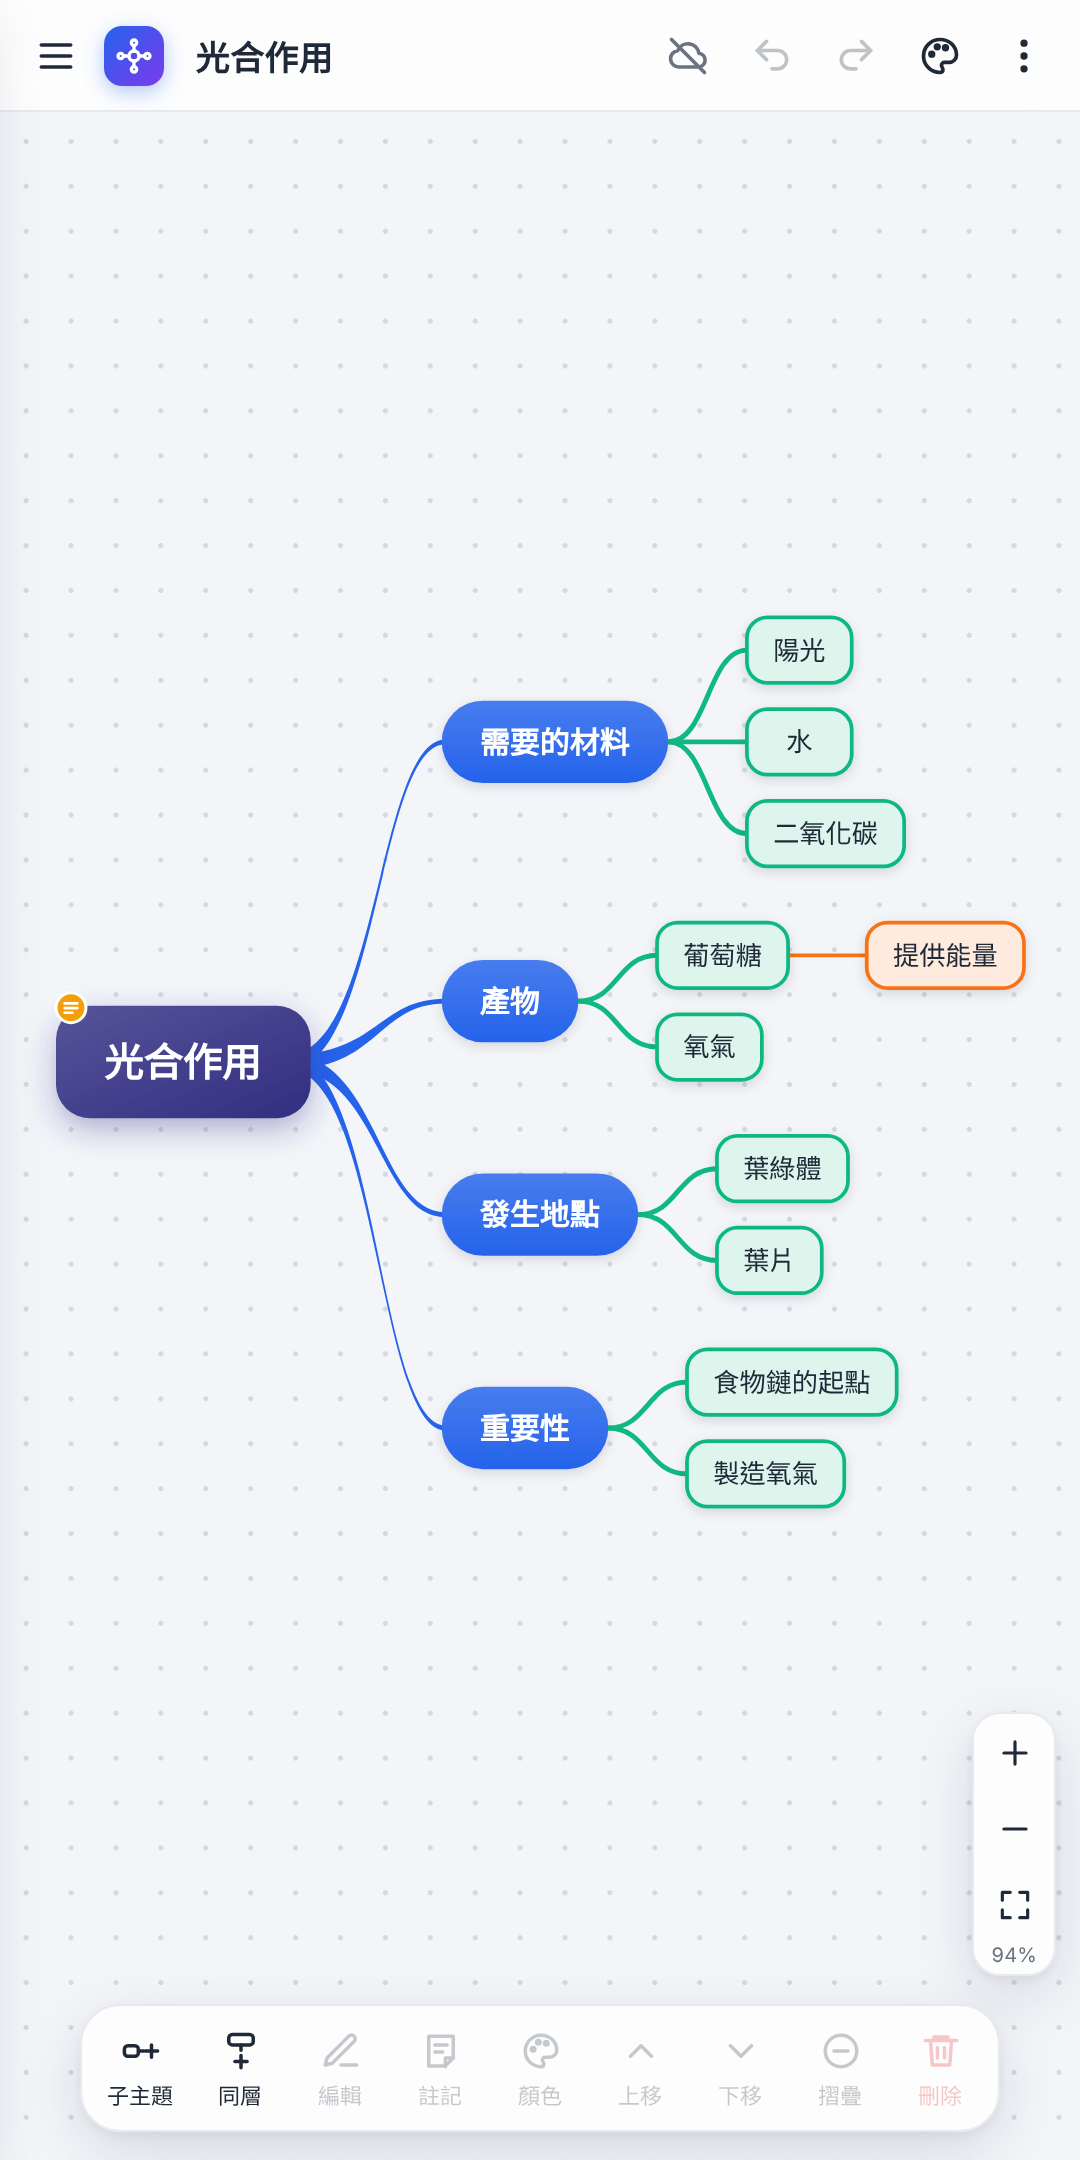
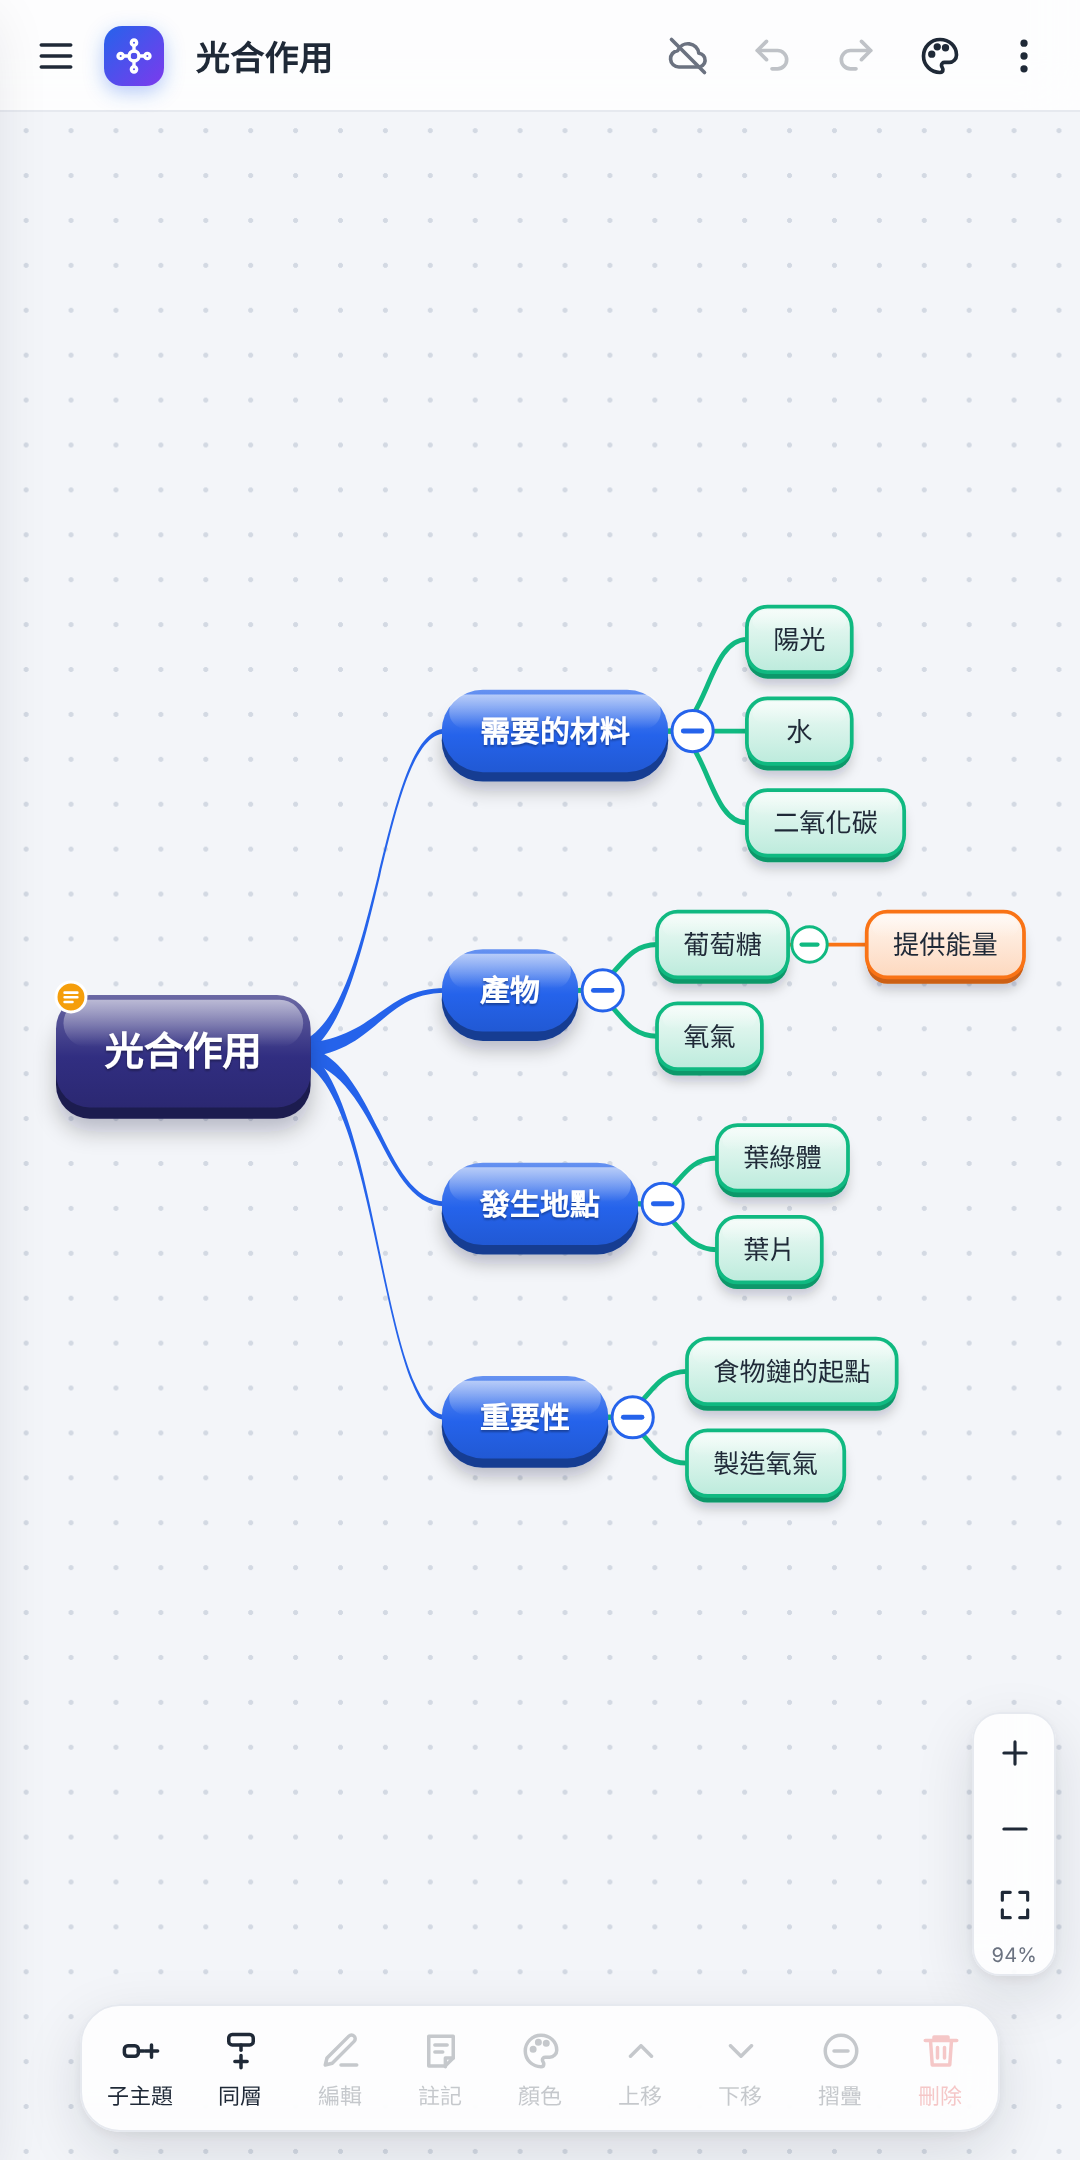
Add files via upload

Changed region(s): [[0.0306, 0.2792, 0.9472, 0.7134], [0.3361, 0.3722, 0.3667, 0.4343]]

diff --git a/sw.js b/sw.js
@@ -1,6 +1,6 @@
 // 心智圖 - Service Worker（讓 App 可離線開啟）
 // 更新程式後，把版本號改掉，使用者下次開啟就會拿到新版
-const CACHE_NAME = 'mindmap-v1.5.0';
+const CACHE_NAME = 'mindmap-v1.6.0';
 const APP_FILES = [
   './',
   './index.html',

diff --git a/README.md b/README.md
@@ -1,7 +1,7 @@
 # 🧠 心智圖 App
 
 一個可以安裝在手機和電腦上的心智圖 App。
-點一下就能新增、刪除主題，依層級自動上色，有 14 種鮮豔的顏色主題，每個主題可加註記並記錄建立時間，手機和電腦可以同步使用。
+點一下就能新增、刪除主題，依層級自動上色，有 26 種鮮明的顏色主題、立體有陰影的主題樣式，每個主題可加註記並記錄建立時間，手機和電腦可以同步使用。
 
 **👉 立即使用：<https://chahan1.github.io/mindmap/>**
 
@@ -19,7 +19,8 @@
 | ✏ 編輯 | 點兩下主題修改文字，Shift+Enter 換行 |
 | 🖐 整理 | 拖曳主題到另一個主題上搬移；上移／下移 |
 | ⊖ 摺疊 | 直接按主題外側的小圓鈕摺疊／展開分支，摺疊後顯示收起的子主題數量 |
-| 🎨 顏色 | 依層級自動上色；14 種顏色主題（繽紛、彩虹、霓虹、星空、海洋、熱帶、薄荷、森林、夕陽、秋楓、莓果、糖果、莫蘭迪、簡約）；也可單獨換色 |
+| 🎨 顏色 | 依層級自動上色；26 種顏色主題（繽紛、彩虹、普普、霓虹、電光、極光、星空、葡萄、皇家、海洋、湖水、熱帶、薄荷、翡翠、森林、柑橘、夕陽、熔岩、秋楓、紅鶴、櫻花、莓果、糖果、復古、莫蘭迪、簡約）；也可單獨換色 |
+| 🧊 立體 | 每個主題有厚度、亮面和陰影，看起來像立體按鈕；也可切換回平面樣式 |
 | 📝 註記 | 每個主題都能寫註記（想法、補充、日後回饋），有註記的主題角落會出現黃色小圖示 |
 | 🕒 時間 | 自動記錄每個主題的建立與修改時間；可在主題下方顯示建立時間 |
 | 🗂 回顧 | 「回顧清單」依時間列出所有主題與註記，點一下跳到該主題，也能複製成文字 |
@@ -42,6 +43,15 @@
 > 第一次使用時，瀏覽器會詢問是否允許使用麥克風，請按「允許」。
 > 語音辨識需要網路，建議使用 Android 的 Chrome 或電腦的 Chrome／Edge。iPhone 的 Safari 也可以用，但安裝到主畫面後有時無法使用語音，會自動改成打字。
 > 在 claude.ai 上開啟的版本不能使用麥克風，會直接用打字。
+
+---
+
+## 🎨 顏色主題與立體樣式
+
+按右上角**調色盤**：
+- 上方選「**立體**」或「**平面**」：立體樣式的每個主題都有厚度、上方亮面和下方陰影。
+- 選「依層級上色」或「依分支上色」。
+- 從 26 組配色中點一組，畫面會立刻套用（視窗可以往下捲看到全部配色）。
 
 ---
 
@@ -173,7 +183,7 @@
 2. 等 1～2 分鐘讓 GitHub Pages 更新。
 3. 開啟 App，上方會出現「已下載新版本」，按「**重新載入**」即可。
 
-> 每次更新時，`sw.js` 第 3 行的版本號（`CACHE_NAME`）都要改，例如 `mindmap-v1.5.0` → `mindmap-v1.5.1`，裝置才會知道有新版。
+> 每次更新時，`sw.js` 第 3 行的版本號（`CACHE_NAME`）都要改，例如 `mindmap-v1.6.0` → `mindmap-v1.6.1`，裝置才會知道有新版。
 
 ---
 
@@ -235,6 +245,7 @@
 
 | 版本 | 更新內容 |
 |---|---|
+| v1.6.0 | 顏色主題增加到 26 組（新增普普、電光、極光、葡萄、皇家、湖水、翡翠、柑橘、熔岩、紅鶴、櫻花、復古）；主題改為立體樣式（厚度、亮面、陰影），可切換平面 |
 | v1.5.0 | 語音優先輸入：新增／修改主題時先語音辨識，失敗自動改打字；註記可語音輸入；中文／English 切換 |
 | v1.4.1 | 畫面上直接摺疊／展開分支（主題外側小圓鈕） |
 | v1.4.0 | 主題註記、建立／修改時間、回顧清單；顏色主題增加到 14 組並更鮮豔；＋／× 按鈕跟著縮放 |
